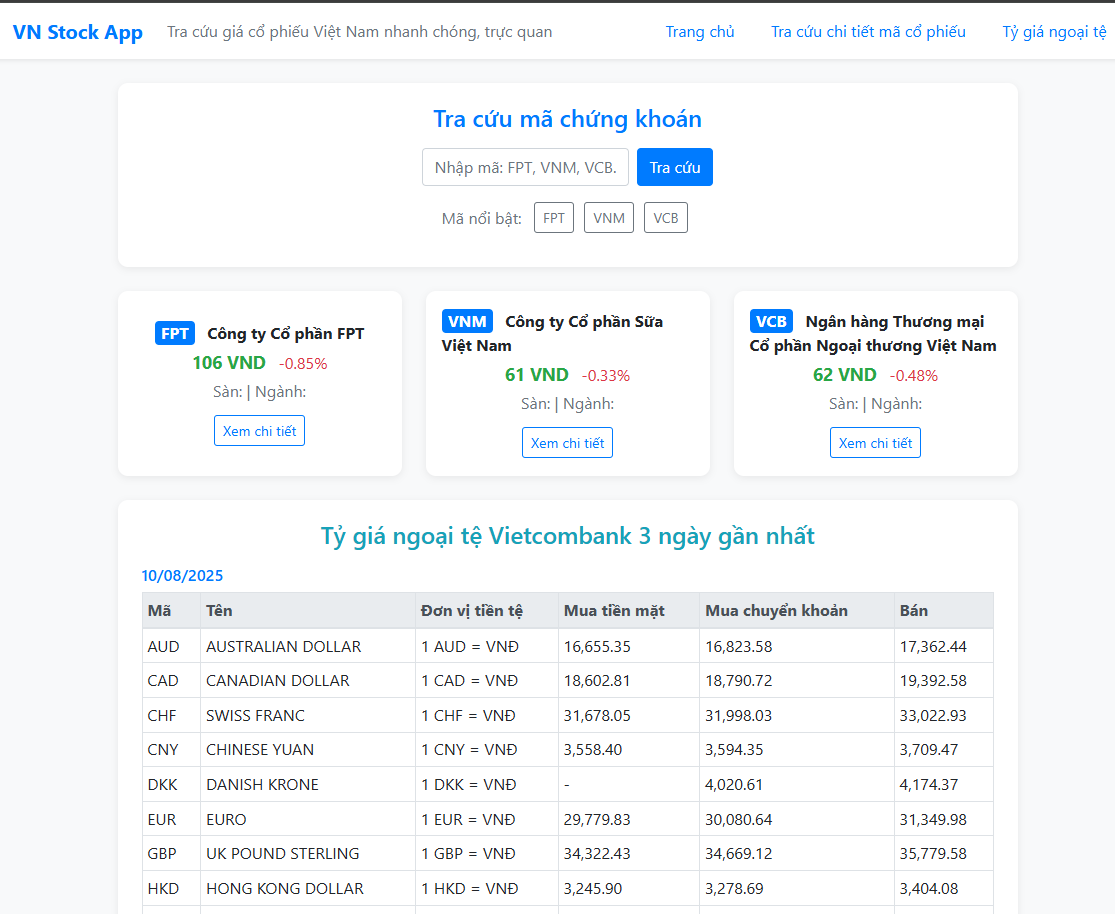
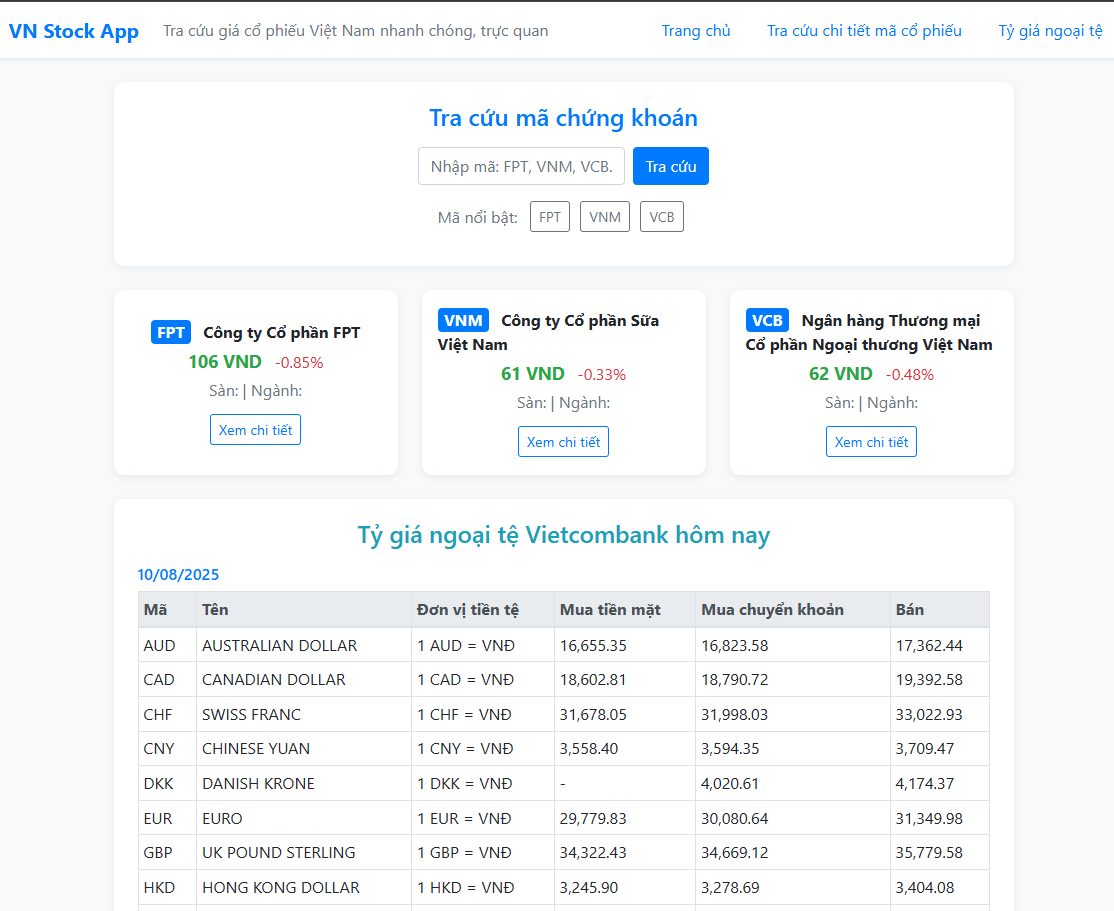
Refactor StockController and StockRepository to use caching for hot industries and stock symbols; optimize exchange rate updates with bulk insert and caching.

diff --git a/app/Repositories/ExchangeRateRepository.php b/app/Repositories/ExchangeRateRepository.php
@@ -4,6 +4,8 @@ namespace App\Repositories;
 use App\Models\ExchangeRate;
 use App\Services\ExchangeRateService;
 use Carbon\Carbon;
+use Illuminate\Support\Facades\DB;
+use Illuminate\Support\Facades\Cache;
 
 class ExchangeRateRepository implements ExchangeRateRepositoryInterface
 {
@@ -29,24 +31,19 @@ class ExchangeRateRepository implements ExchangeRateRepositoryInterface
 
     public function updateRatesFromPython(): void
     {
-        $data = $this->exchangeRateService->fetchRatesFromPython();
-        foreach ($data as $dayRates) {
-            if (is_array($dayRates)) {
-                foreach ($dayRates as $item) {
-                    ExchangeRate::updateOrCreate(
-                        [
-                            'currency_code' => $item['currency_code'],
-                            'date' => $item['date']
-                        ],
-                        [
-                            'currency_name' => $item['currency_name'],
-                            'buy_cash' => $item['buy _cash'] ?? null,
-                            'buy_transfer' => $item['buy _transfer'] ?? null,
-                            'sell' => $item['sell'] ?? null,
-                        ]
-                    );
-                }
-            }
+        $rates = $this->exchangeRateService->fetchRatesFromPython();
+        $bulk = [];
+        foreach ($rates as $rate) {
+            $bulk[] = [
+                'date' => $rate['date'],
+                'currency' => $rate['currency'],
+                'buy' => $rate['buy'],
+                'sell' => $rate['sell'],
+                'created_at' => now(),
+                'updated_at' => now(),
+            ];
         }
+        DB::table('exchange_rates')->upsert($bulk, ['date', 'currency'], ['buy', 'sell', 'updated_at']);
+        Cache::put('exchange_rates_last_update', now(), 3600);
     }
 }

diff --git a/app/Repositories/StockRepository.php b/app/Repositories/StockRepository.php
@@ -11,6 +11,7 @@ use App\Models\StockPrice;
 use App\Models\StockSymbol;
 use Carbon\Carbon;
 use App\Services\StockService;
+use Illuminate\Support\Facades\Cache;
 
 class StockRepository implements StockRepositoryInterface
 {
@@ -120,21 +121,16 @@ class StockRepository implements StockRepositoryInterface
      */
     public function getOrUpdateSymbols(): void
     {
-        $latest = StockSymbol::orderByDesc('updated_at')->first();
-        $needUpdate = !$latest || now()->diffInHours($latest->updated_at) > 24;
-
-        if ($needUpdate) {
+        $lastUpdate = Cache::get('stock_symbols_last_update');
+        if (!$lastUpdate || now()->diffInHours($lastUpdate) > 24) {
             $symbols = $this->stockService->fetchStockListFromPython();
-            if (is_array($symbols)) {
-                StockSymbol::truncate();
-                foreach ($symbols as $item) {
-                    StockSymbol::create([
-                        'symbol' => $item['symbol'],
-                        'name' => $item['organ_name'] ?? '',
-                        'updated_at' => now(),
-                    ]);
-                }
+            foreach ($symbols as $symbol) {
+                StockSymbol::updateOrCreate(
+                    ['symbol' => $symbol['symbol']],
+                    ['organ_name' => $symbol['organ_name'] ?? null]
+                );
             }
+            Cache::put('stock_symbols_last_update', now(), 86400);
         }
     }
 

diff --git a/app/Services/StockService.php b/app/Services/StockService.php
@@ -6,6 +6,8 @@
  */
 namespace App\Services;
 
+use Illuminate\Support\Facades\Log;
+
 class StockService
 {
     /**
@@ -55,6 +57,15 @@ class StockService
         $scriptPath = base_path('py/get_hot_industries.py');
         $command = "\"{$pythonPath}\" \"{$scriptPath}\" {$limit}";
         exec($command, $output, $returnVar);
+
+        if ($returnVar !== 0) {
+            Log::error('Python script error', [
+                'command' => $command,
+                'output' => $output,
+                'returnVar' => $returnVar
+            ]);
+            return [];
+        }
 
         $jsonStart = strpos(implode("\n", $output), '[');
         $jsonStr = $jsonStart !== false ? substr(implode("\n", $output), $jsonStart) : '';

diff --git a/app/Http/Controllers/StockController.php b/app/Http/Controllers/StockController.php
@@ -14,6 +14,7 @@ use App\Models\StockPrice;
 use App\Models\StockSymbol;
 use Carbon\Carbon;
 use App\Repositories\ExchangeRateRepositoryInterface;
+use Illuminate\Support\Facades\Cache;
 
 class StockController extends Controller
 {
@@ -52,7 +53,9 @@ class StockController extends Controller
 
         $exchangeRates = $this->exchangeRateRepo->getLatestRates(1);
 
-        $hotIndustries = $this->stockService->fetchHotIndustriesFromPython(30);
+        $hotIndustries = Cache::remember('hot_industries', 3600, function() {
+            return $this->stockService->fetchHotIndustriesFromPython(30);
+        });
 
         return view('index', compact('featured', 'exchangeRates', 'hotIndustries'));
     }

diff --git a/resources/views/stock/stock.blade.php b/resources/views/stock/stock.blade.php
@@ -75,6 +75,7 @@
                         <th>Thấp nhất</th>
                         <th>Đóng cửa</th>
                         <th>Khối lượng</th>
+                        <th>Đơn vị tiền tệ</th>
                     </tr>
                 </thead>
                 <tbody id="priceTableBody">
@@ -218,6 +219,7 @@
                 <td>${item.low}</td>
                 <td>${item.close}</td>
                 <td>${Number(item.volume).toLocaleString()}</td>
+                <td>${item.currency || 'VND'}</td>
             </tr>
         `).join('');
         renderPagination();

diff --git a/resources/views/index.blade.php b/resources/views/index.blade.php
@@ -136,7 +136,7 @@
 
     {{-- Section tỷ giá ngoại tệ --}}
     <div class="stock-highlight-card mb-4">
-        <h4 class="mb-3 text-info text-center">Tỷ giá ngoại tệ Vietcombank 3 ngày gần nhất</h4>
+        <h4 class="mb-3 text-info text-center">Tỷ giá ngoại tệ Vietcombank hôm nay</h4>
         @foreach($exchangeRates as $date => $items)
             <h6 class="mt-3 text-primary">{{ \Carbon\Carbon::parse($date)->format('d/m/Y') }}</h6>
             <div class="table-responsive">
